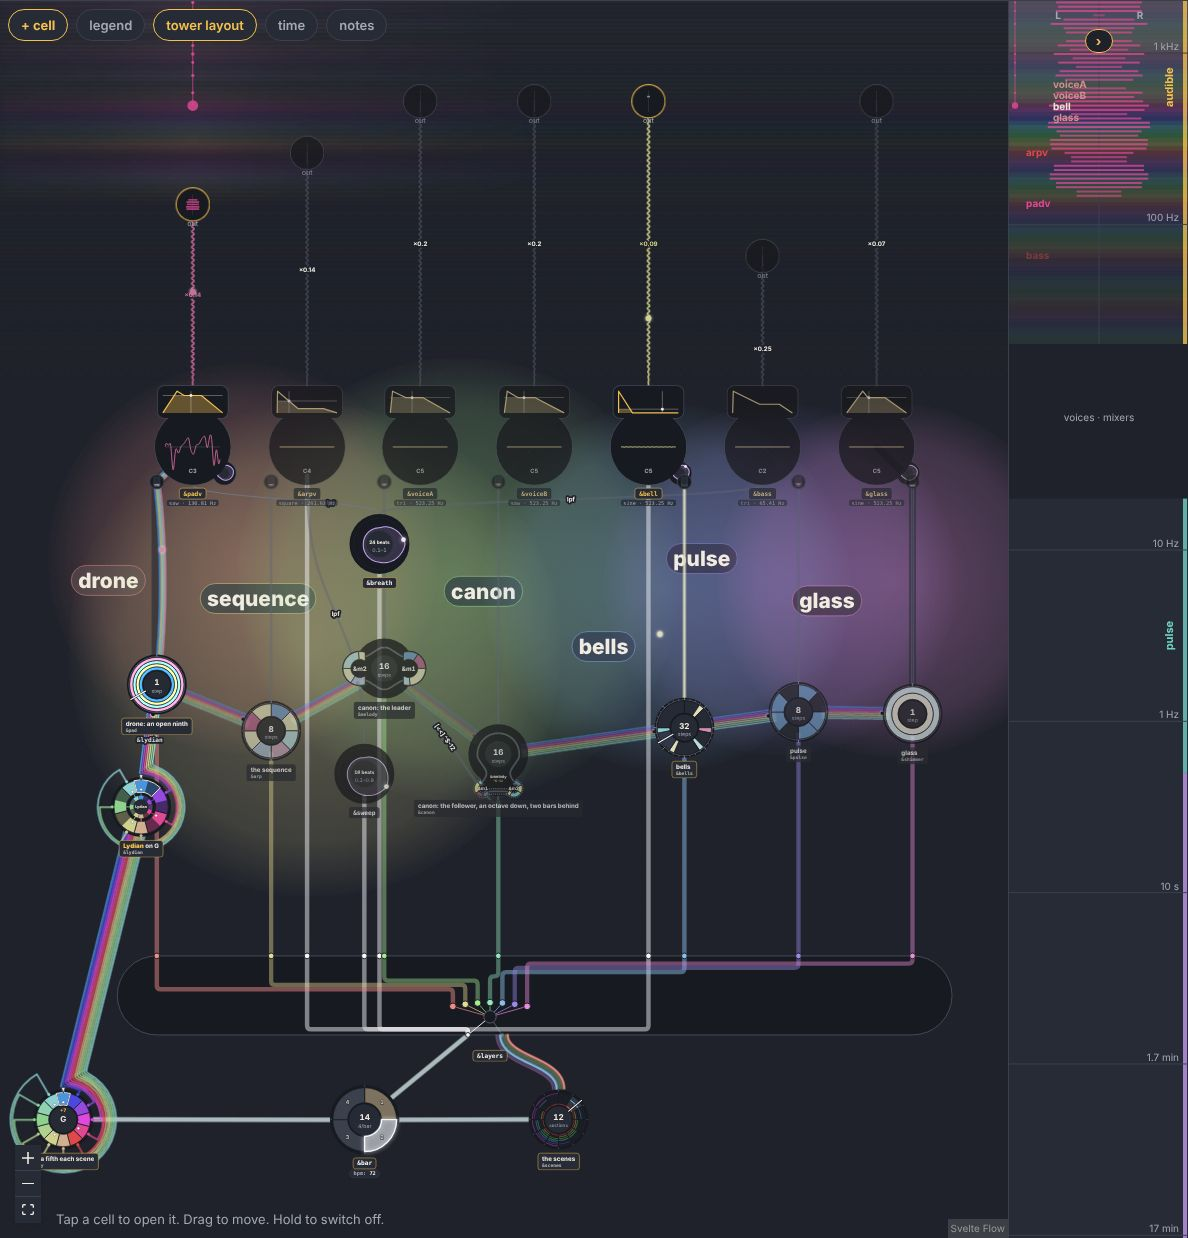
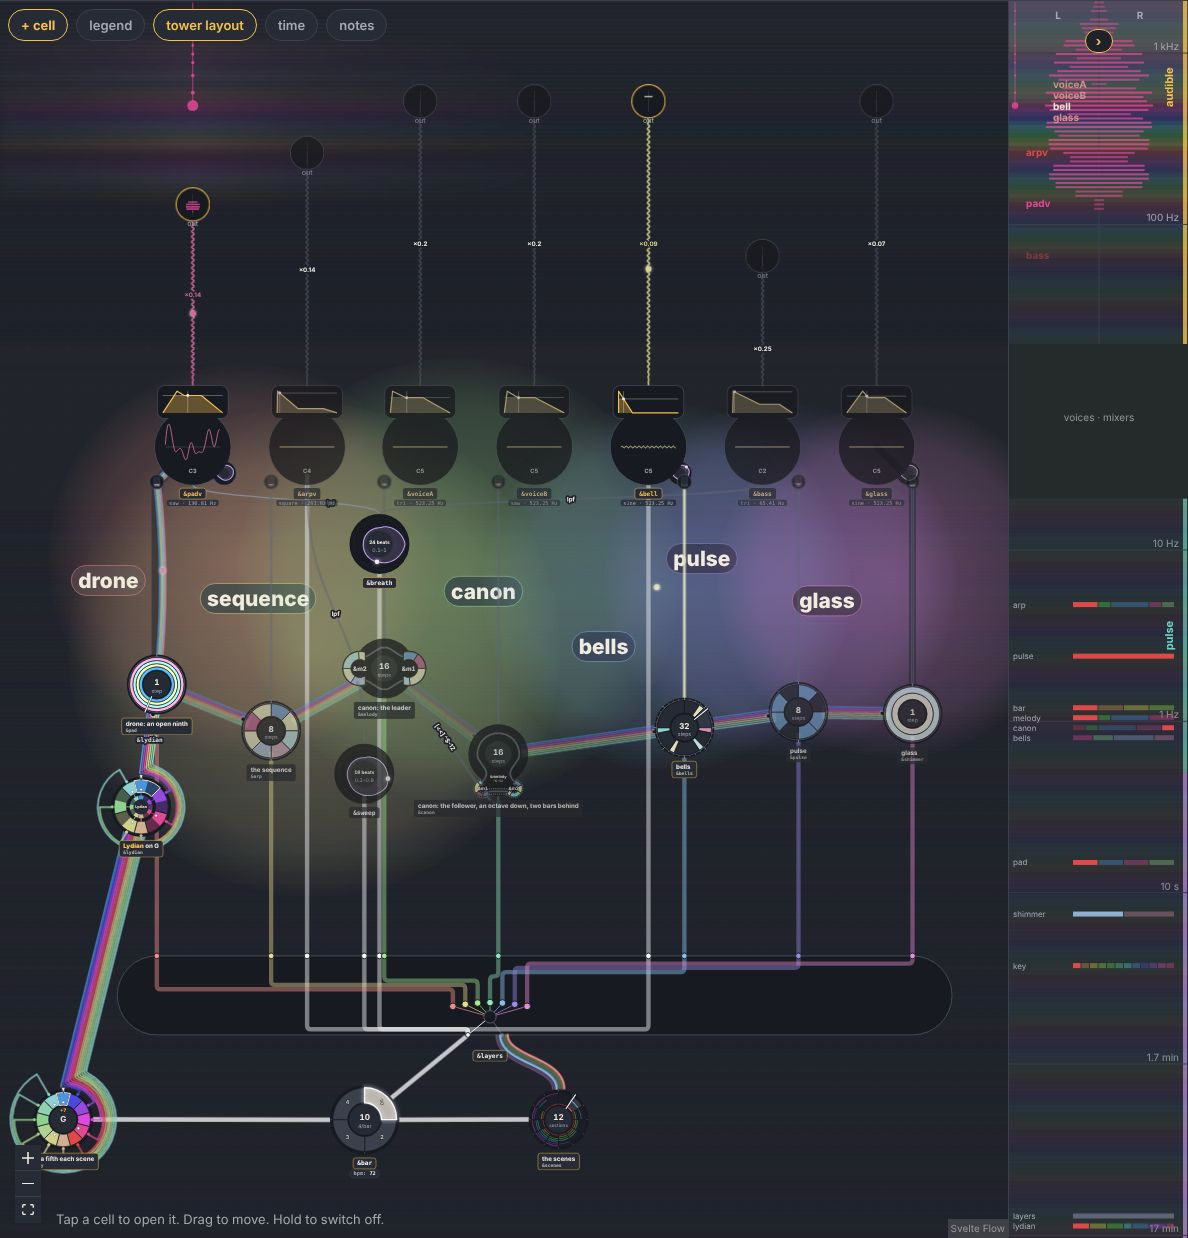
The structure on the tower layout's strip: each wheel's spectrum of values at its rate, the tables at the bottom, a sub-sonic rainbow (#234)
valueSpectrum / valueAt (cellview.ts): each value a wheel takes, the share of
its lap, and the one it holds now. The strip draws each stepped cell as a row
of chips at its step rate, lit where it is now, the tables nothing steps as
rows at its bottom; under 20 Hz the semitone bands go on, on the strip and
behind the structure.

Claude-Session: https://claude.ai/code/session_01GKPeX3Yi1SAy4jNKSz7END

diff --git a/src/ui/TowerStrips.svelte b/src/ui/TowerStrips.svelte
@@ -19,15 +19,20 @@
   import { onDestroy, onMount } from 'svelte';
   import { getGraphContext, nodeState } from './context';
   import { bandFreq, bandHue, bandOctave } from '../layout/spectrum';
-  import { towerNets, towerY, type TowerIn } from '../layout/towerlayout';
+  import { towerAt, towerNets, towerY, type TowerIn } from '../layout/towerlayout';
   import { TOWER_ZONES } from '../layout/tower';
   import { onFrames } from '../audio/ticker';
   import { noteHsl } from './theme';
   import { heard, noteHz, noteOf, outRgb } from './heard';
   import { drawSpire, spireOf } from './spire';
+  import { cellView, valueAt, valueSpectrum } from '../layout/cellview';
+  import { lapOf } from '../engine/readers';
+  import { fillColour } from './edgeStyle';
+  import { C0 } from '../layout/spectrum';
 
   let {
     ins,
+    structure = [],
     viewport,
     zone = 0,
     open,
@@ -35,6 +40,8 @@
     sum = 'stack',
   }: {
     ins: readonly TowerIn[];
+    /** The structure: each stepped cell at its rate (decades), the tables nothing steps at -Infinity. */
+    structure?: readonly { name: string; at: number }[];
     viewport: Viewport;
     /** The neutral zone between the structure and the audible (decades: towerlayout.ts towerY). */
     zone?: number;
@@ -207,6 +214,61 @@
       });
     }
     g.font = '10px system-ui, sans-serif';
+    // the structure (docs/notes/tower-sky.md): under 20 Hz the rainbow goes on, a rate's octaves in a pitch's colours,
+    // muted; each stepped cell a row at its rate, the spectrum of its values (each value as wide as it is held, in its
+    // colour, the one it holds now lit); the tables nothing steps rows at the strip's bottom, their spectra static
+    const lowest = towerAt((h - viewport.y) / viewport.zoom);
+    for (let k = Math.floor(12 * Math.log2(10 ** lowest / C0)); ; k++) {
+      const d = Math.log10(C0 * 2 ** (k / 12));
+      if (d >= Math.log10(20)) break;
+      const y0 = yOf(d + Math.log10(2) / 24);
+      const y1 = yOf(d - Math.log10(2) / 24);
+      if (y1 < 0) continue;
+      g.fillStyle = hsla((((k % 12) + 12) % 12) * 30, 0.2, Math.floor(k / 12) - 4);
+      g.fillRect(0, y0, W, y1 - y0);
+    }
+    // (a row's height: cells at one rate stacked this far apart)
+    const ROW = 10;
+    const paint = (c: string) => (c.startsWith('var(') ? css(c.slice(4, -1)) : c);
+    const rows = new Map<number, number>();
+    const tables = structure.filter((x) => x.at === -Infinity);
+    const chips = (name: string, y: number) => {
+      const v = cellView(ctx.program, name, ctx.shifts, false);
+      if (!v) return;
+      const spread = valueSpectrum(v);
+      if (!spread.length) return;
+      const local = ctx.heads.cells.get(name)?.local ?? 0;
+      const lap = lapOf(ctx.program, name);
+      const now = lap > 0 ? valueAt(v, (((local / lap) % 1) + 1) % 1) : null;
+      const x0 = open ? 64 : 8;
+      const x1 = W - 14;
+      let x = x0;
+      for (const e of spread) {
+        const w = e.share * (x1 - x0);
+        g.globalAlpha = ctx.state === 'stopped' || e.key === now ? 1 : 0.35;
+        g.fillStyle = paint(fillColour(e.fill));
+        g.fillRect(x, y - 2.5, Math.max(1, w - 1), 5);
+        x += w;
+      }
+      g.globalAlpha = 1;
+      if (open) {
+        g.fillStyle = css('--text-muted');
+        g.font = '8px system-ui, sans-serif';
+        g.textAlign = 'left';
+        g.fillText(name, 4, y + 3, 58);
+      }
+    };
+    for (const c of structure) {
+      if (c.at === -Infinity) continue;
+      // (cells at one rate stacked, a row each)
+      const at = yOf(c.at);
+      const key = Math.round(at / ROW);
+      const n = rows.get(key) ?? 0;
+      rows.set(key, n + 1);
+      if (at < -10 || at > h + 10) continue;
+      chips(c.name, at + n * ROW);
+    }
+    tables.forEach((c, k) => chips(c.name, h - 12 - k * ROW));
     // the halves named, the zones named (opened)
     g.fillStyle = css('--text-muted');
     g.font = '700 10px system-ui, sans-serif';
@@ -230,7 +292,7 @@
 
   // stopped: drawn again when what it shows moves (the view, the piece, a source); playing: every frame (below)
   $effect(() => {
-    void [viewport.x, viewport.y, viewport.zoom, ins, sw, h, ctx.program, ctx.shifts, ctx.state, ctx.muted, canvas];
+    void [viewport.x, viewport.y, viewport.zoom, ins, structure, sw, h, ctx.program, ctx.shifts, ctx.state, ctx.muted, canvas];
     draw();
   });
   let stop = () => {};

diff --git a/src/ui/Graph.svelte b/src/ui/Graph.svelte
@@ -45,6 +45,7 @@
   import TowerStrips, { STRIP, STRIP_OPEN } from './TowerStrips.svelte';
   import TowerSky, { SKY_MODES, type SkyMode } from './TowerSky.svelte';
   import { tagSections } from './sections';
+  import { towerOf } from '../layout/tower';
   import TapLooms from './TapLooms.svelte';
   import { towerIns } from '../layout/towerlayout';
   import { pillAnchor } from '../layout/taploom';
@@ -337,6 +338,18 @@
   const spires = $derived(
     sky ? layout.nodes.flatMap((n) => (n.type === 'socket' ? [{ id: n.id, x: n.position.x, y: n.position.y, source: (n.data as { source: string }).source }] : [])) : [],
   );
+  // the structure on the strip (TowerStrips.svelte): each stepped cell at its rate, the tables nothing steps at the
+  // bottom (-Infinity), each showing its spectrum of values
+  const structure = $derived.by(() => {
+    if (!towered) return [];
+    const at = towerOf(shown.program, shown.model, 'step');
+    return shown.model.nodes.flatMap((n) => {
+      const c = n.cell;
+      if (!c || n.petalOf || c.note || c.voice || c.kit || c.mix || c.sink) return [];
+      const d = at.get(n.id);
+      return d !== undefined && (d === -Infinity || (Number.isFinite(d) && d < Math.log10(20))) ? [{ name: c.name, at: d }] : [];
+    });
+  });
   // the frequency tower beside the graph (TowerAxis.svelte), in the signal path's layout
   let towerOpen = $state(QUERY?.has('tower') ?? false);
   // (the flow's pan and zoom, for the tower drawn beside it; framed again when the tower opens or closes)
@@ -490,7 +503,15 @@
     </SvelteFlow>
   </div>
   {#if towered}
-    <TowerStrips {ins} {viewport} zone={layout.zone} sum={QUERY?.get('sum') === 'max' ? 'max' : 'stack'} open={stripsOpen} ontoggle={() => (stripsOpen = !stripsOpen)} />
+    <TowerStrips
+      {ins}
+      {structure}
+      {viewport}
+      zone={layout.zone}
+      sum={QUERY?.get('sum') === 'max' ? 'max' : 'stack'}
+      open={stripsOpen}
+      ontoggle={() => (stripsOpen = !stripsOpen)}
+    />
   {/if}
   {#if towerShown}
     <TowerAxis model={shown.model} program={shown.program} nodes={layout.nodes} {viewport} focus={selectedName ?? towerCell} right={cardCover} />

diff --git a/src/layout/cellview.ts b/src/layout/cellview.ts
@@ -473,3 +473,49 @@ export function lfoValues(result: CompileResult, name: string, shifts: Shifts): 
   const swing = Math.abs(lo + hi) < 1e-9 ? `±${fmt(hi)}` : `${fmt(lo)}–${fmt(hi)}`;
   return { wave: raw.map((x) => (x - lo) / span), rate, swing };
 }
+
+/** One value a wheel takes (`valueSpectrum`): how it is drawn, and its share of the wheel's lap (0 … 1). */
+export interface ValueShare {
+  readonly key: string;
+  readonly fill: Fill;
+  readonly share: number;
+}
+
+/** A fill's identity: two fills of one key are drawn alike. */
+const fillKey = (f: Fill) =>
+  f.kind === 'pitch'
+    ? `p${Math.round(f.hue)}/${f.octave ?? 0}/${f.alter ?? 0}${f.unit ? 'u' : ''}`
+    : f.kind === 'level'
+      ? `l${Math.round(f.v * 20)}`
+      : f.kind === 'beat'
+        ? `b${f.down}`
+        : f.kind;
+
+/**
+ * A wheel's spectrum of values (the tower layout's strip, docs/notes/tower-sky.md): each value it takes and how much
+ * of its lap it holds it, rests aside, in the order of the values (pitches low to high, levels, beats). Its chords'
+ * notes each a value.
+ */
+export function valueSpectrum(view: CellView): ValueShare[] {
+  const by = new Map<string, { fill: Fill; w: number }>();
+  let all = 0;
+  for (const s of view.segments)
+    for (const f of s.bands) {
+      if (f.kind === 'rest') continue;
+      const k = fillKey(f);
+      const w = (s.t1 - s.t0) / s.bands.length;
+      all += w;
+      const e = by.get(k);
+      if (e) e.w += w;
+      else by.set(k, { fill: f, w });
+    }
+  const rank = (f: Fill) => (f.kind === 'pitch' ? (f.octave ?? 0) * 360 + f.hue : f.kind === 'level' ? 1e4 + f.v : 2e4);
+  return [...by].map(([key, { fill, w }]) => ({ key, fill, share: all > 0 ? w / all : 0 })).sort((a, b) => rank(a.fill) - rank(b.fill));
+}
+
+/** The key of the value a wheel holds at `t` (0 … 1 of its lap), to light it in its spectrum; null in a rest. */
+export function valueAt(view: CellView, t: number): string | null {
+  const s = view.segments.find((x) => t >= x.t0 - 1e-9 && t < x.t1 - 1e-9);
+  const f = s?.bands.find((b) => b.kind !== 'rest');
+  return f ? fillKey(f) : null;
+}

diff --git a/src/ui/TowerSky.svelte b/src/ui/TowerSky.svelte
@@ -20,8 +20,8 @@
   import type { Viewport } from '@xyflow/svelte';
   import { onDestroy, onMount } from 'svelte';
   import { getGraphContext, nodeState } from './context';
-  import { bandFreq, bandHue, bandOctave } from '../layout/spectrum';
-  import { towerY } from '../layout/towerlayout';
+  import { bandFreq, bandHue, bandOctave, C0 } from '../layout/spectrum';
+  import { towerAt, towerY } from '../layout/towerlayout';
   import { onFrames } from '../audio/ticker';
   import { hslRgb, noteHsl } from './theme';
   import { heard, noteHz, outRgb } from './heard';
@@ -81,6 +81,17 @@
       if (y < -half || y > h + half) continue;
       g.fillStyle = css(hues[b], 0.09);
       g.fillRect(0, y - half, w, 2 * half);
+    }
+    // under it, behind the structure, the rainbow goes on: a rate's octaves in a pitch's colours, fainter
+    const lowest = towerAt((h - viewport.y) / viewport.zoom);
+    for (let k = Math.floor(12 * Math.log2(10 ** lowest / C0)); ; k++) {
+      const d = Math.log10(C0 * 2 ** (k / 12));
+      if (d >= Math.log10(20)) break;
+      const y0 = yOf(d + Math.log10(2) / 24);
+      const y1 = yOf(d - Math.log10(2) / 24);
+      if (y1 < 0) continue;
+      g.fillStyle = css(hslRgb(...noteHsl((((k % 12) + 12) % 12) * 30, false, Math.floor(k / 12) - 4)), 0.08);
+      g.fillRect(0, y0, w, y1 - y0);
     }
     // its edge: where the audible begins
     const floor = yOf(Math.log10(20));

diff --git a/src/layout/cellview.test.ts b/src/layout/cellview.test.ts
@@ -3,7 +3,7 @@ import { describe, expect, it } from 'vitest';
 import { SAILOR_WITH_KIT } from '../engine/fixtures';
 import { compileSource } from '../engine/compile';
 import { codeShifts, type Shifts } from '../engine/program';
-import { blank, cellView, drawnOf, hubLabel, isGrid, type CellView } from './cellview';
+import { blank, cellView, drawnOf, hubLabel, isGrid, valueAt, valueSpectrum, type CellView } from './cellview';
 import { PRESETS } from '../engine/presets';
 
 const r = compileSource(PRESETS.royal.source);
@@ -240,5 +240,19 @@ describe('a 0 that means nothing but now is white (decision 036)', () => {
     expect(blank(of('waltz'), 'I')).toBe(false);
     expect(blank(of('bossa'), 'rim')).toBe(false);
     expect(blank(of('pop'), 'hats')).toBe(false);
+  });
+});
+
+describe("a wheel's spectrum of values", () => {
+  it('weighs each value by how long it holds it, rests aside, low to high, and finds the one it holds now', () => {
+    const p = compileSource('&bar step=2\n&t step=&bar 0 4 ~ 0@2');
+    const v = cellView(p, 't', codeShifts(p), false)!;
+    const s = valueSpectrum(v);
+    expect(s).toHaveLength(2);
+    expect(s[0]!.share).toBeCloseTo(3 / 4, 6);
+    expect(s[1]!.share).toBeCloseTo(1 / 4, 6);
+    expect(valueAt(v, 0.1)).toBe(s[0]!.key);
+    expect(valueAt(v, 0.3)).toBe(s[1]!.key);
+    expect(valueAt(v, 0.5)).toBeNull();
   });
 });

diff --git a/CHANGELOG.md b/CHANGELOG.md
@@ -13,6 +13,7 @@ that makes the change. Also note changes to the language that could affect saved
 ### Added
 - **The tower layout's sky** (prototype, [tower-sky.md](docs/notes/tower-sky.md)): the audible stratum behind the graph is a muted rainbow on the strip's scale, darker in the low octaves and brighter in the high, as the notes are; each socket stands in it as a spire, its levels at their own heights, lighting the sky out from it, half in its source's note and half in the sky's colour there (`?sky=tint|rainbow|off` the others). An out wears its source's note everywhere: its socket, its spire, its share of the strip's sum, which is split into the outs' shares (`?sum=max`: as before). Drawing only.
 - **The tower layout's neutral zone**: the voices and the mixers stand in a zone of their own between the structure (under 20 Hz) and the audible (from 20 Hz), off the scale; every socket sits at its sound's own frequency, none lifted to a floor. Each out is a spire, on the strip and in the sky: a big dot at its fundamental, swelling with its level, a hairline up its range, a dot a partial as big as it is strong. Drawing and layout only.
+- **The structure on the tower layout's strip**: under the voices, each stepped cell is a row at its rate, its spectrum of values (each as wide as it is held, in its colour, the one it holds now lit), the tables nothing steps rows at the bottom; under 20 Hz the rainbow goes on, a rate's octaves in a pitch's colours. Drawing only.
 - **A 0 that means nothing is white** (decision 036): where another value would change nothing (a section's clock, a reel, a groove of one drum: Korobeiniki's `&hats`), a cell's 0 is drawn white, not red (C); a 0 played as a pitch stays red, any other value is coloured. Drawing only: saved pieces sound the same.
 - **Labels sit on what they name** (#137, #274, decision 035): an edge's label is on its wire, along it and upright, the wire gapped under it, off every wheel; a net is named once on its trunk, each tap's change near a socket on its reader's rim; a name too long for its tap, splice or tape head goes round the bulb's rim instead of shrinking or clipping; a voice shows its name with what it is under it; a small crowded wheel names itself round its rim; a belt shows its label along its run. Edges are a step bolder. `tools/shots.mjs` is now `node tools/gallery.mjs play`. Drawing only.
 - **Convert to cells, watched** (#390): converting folds first, then replays how the piece comes about: from the notes written out, a cell at a time (motifs, then the phrases made of them), each step playing the same notes. A strip along the bottom of the graph shows the progress and what each step did, with a speed slider (¼× to 4×, kept in this browser), *Skip to end* and *Stop* (the piece as far as it got). Saved `.cells` pieces are unchanged.

diff --git a/docs/notes/tower-sky.md b/docs/notes/tower-sky.md
@@ -122,6 +122,18 @@ The owner's correction to the layout's rule: between the structure (under 20 Hz)
 
 (`node tools/probe/parallel.mjs out.txt`, `VARIANTS=1,2`.) It crosses less (Korobeiniki 5.7 → 2.3, Resonanz 11 → 10, Baustelle 5.0 → 4.7; Hypercell 3.7 → 4.0), and the graph is taller by a quarter: the audible is on its real scale over the zone, and the structure no longer reaches up to the voices.
 
+## The structure on the strip (2026-10-14)
+
+The owner's next: the markers go on into the structure. Each wheel has a value now and a spectrum of the values it can take; each stepped cell is marked at its rate on the tower, on a sub-sonic rainbow; the tables nothing steps sit at the bottom, showing their static spectrum.
+
+- **A wheel's spectrum of values** (`valueSpectrum`, `valueAt` in `layout/cellview.ts`): each value it takes and the share of its lap it holds it, rests aside, low to high; and which it holds now.
+- **On the strip** (`TowerStrips.svelte`): under the neutral zone each stepped cell is a row at its step rate (`towerOf … 'step'`), the cells of one rate stacked: its spectrum as chips, each as wide as its value is held, in the value's colour (a pitch's, a level's, white for a 0 that means nothing), the one it holds now lit while playing. The tables nothing steps (`&major`, `&parts`, `&lydian`) are rows at the strip's bottom. Opened, each row is named.
+- **The sub-sonic rainbow**: under 20 Hz the semitone bands go on (a rate's octaves take a pitch's colours, by the notes' octave gradient, so darker), on the strip and, fainter, behind the structure in the graph.
+
+![the strips at 30 s: Pop, Cellscape, Hypercell, the waltz](tower-sky-structure.jpg)
+
+Seen: Pop's melodies on one row at 4 Hz (`&chords`, `&roots`, `&tune`, `&hats`), `&bar`, `&beat` and `&final` lower, `&parts` and `&major` at the bottom; Cellscape's parts spread down the pulse and the slow, its `&key` twelve keys; Hypercell's `&off` and `&lift` red (pitches). A table of taps (`&parts`) shows its values as plain references, grey: they could wear their sections' tints.
+
 ## 5. One tiered strip for the graph and the time view (proposed)
 
 Three things draw the tower's scale today, each its own way:
